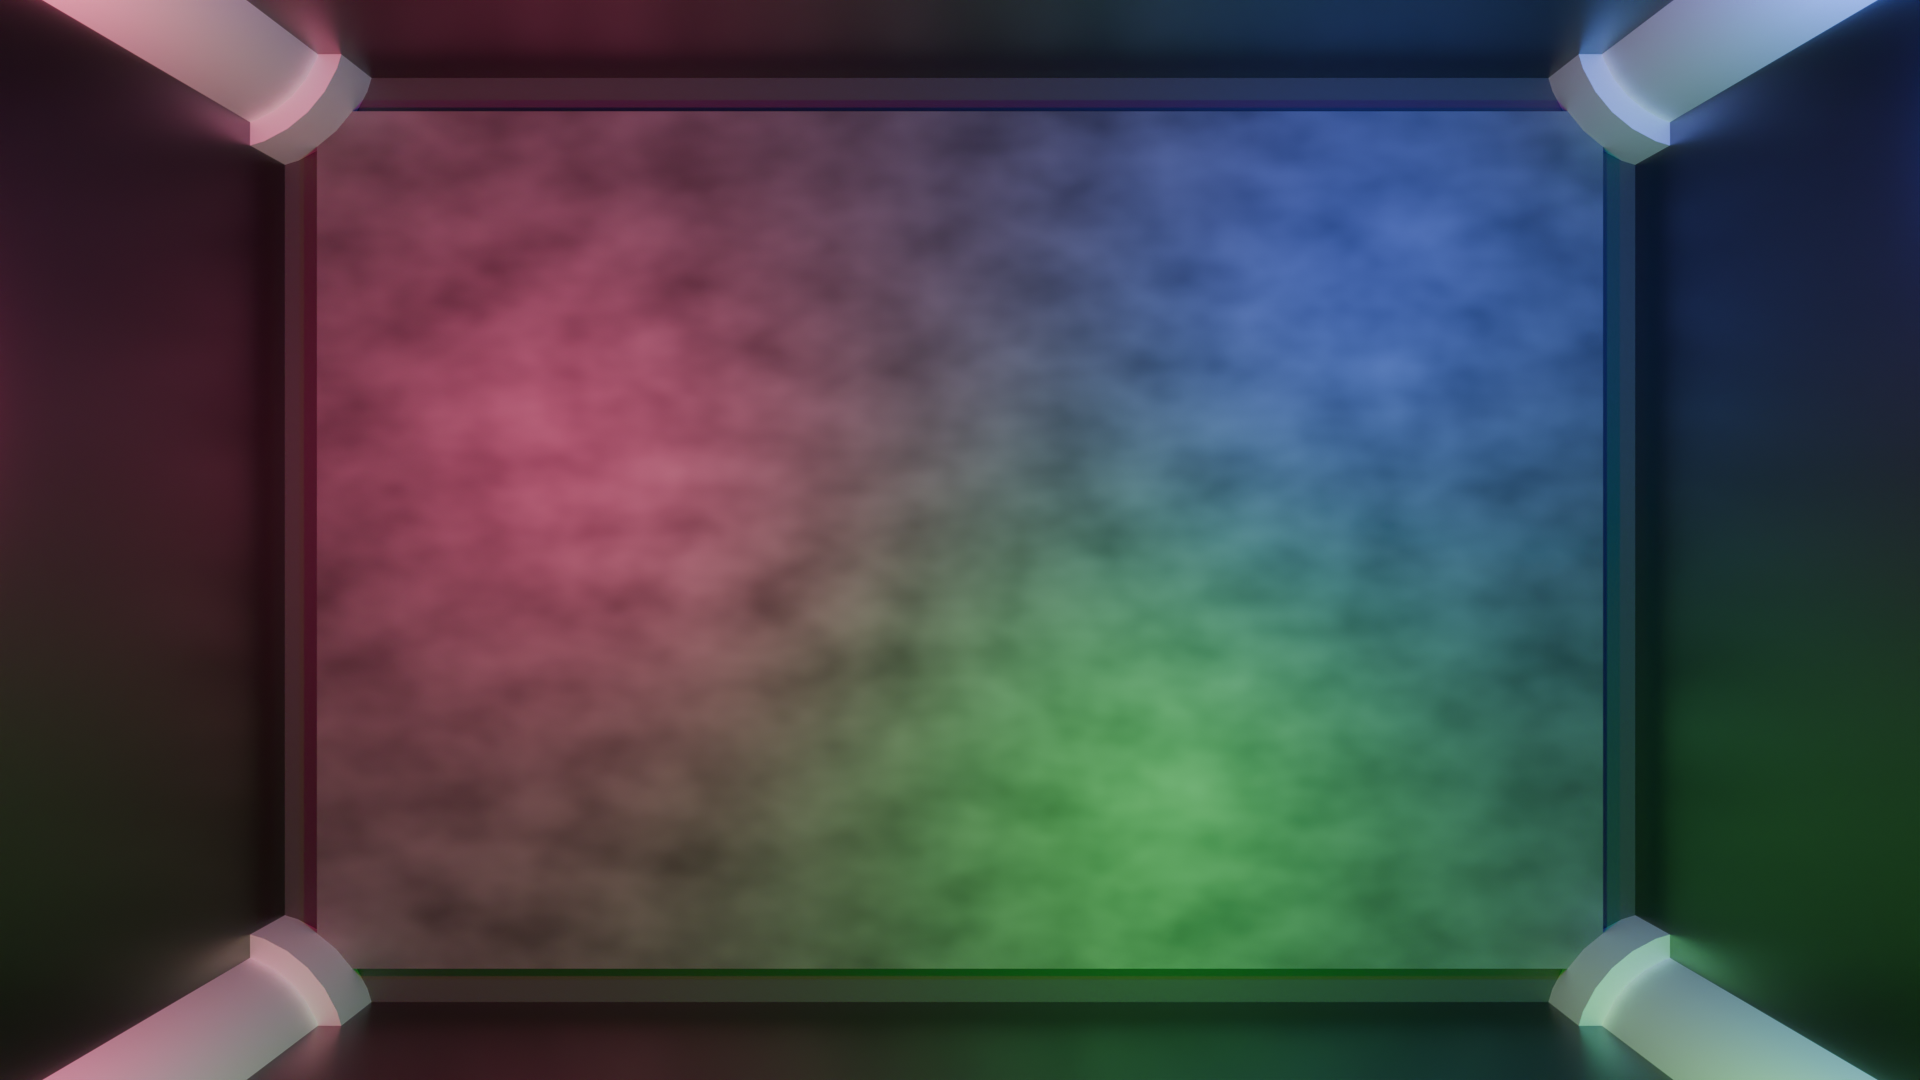
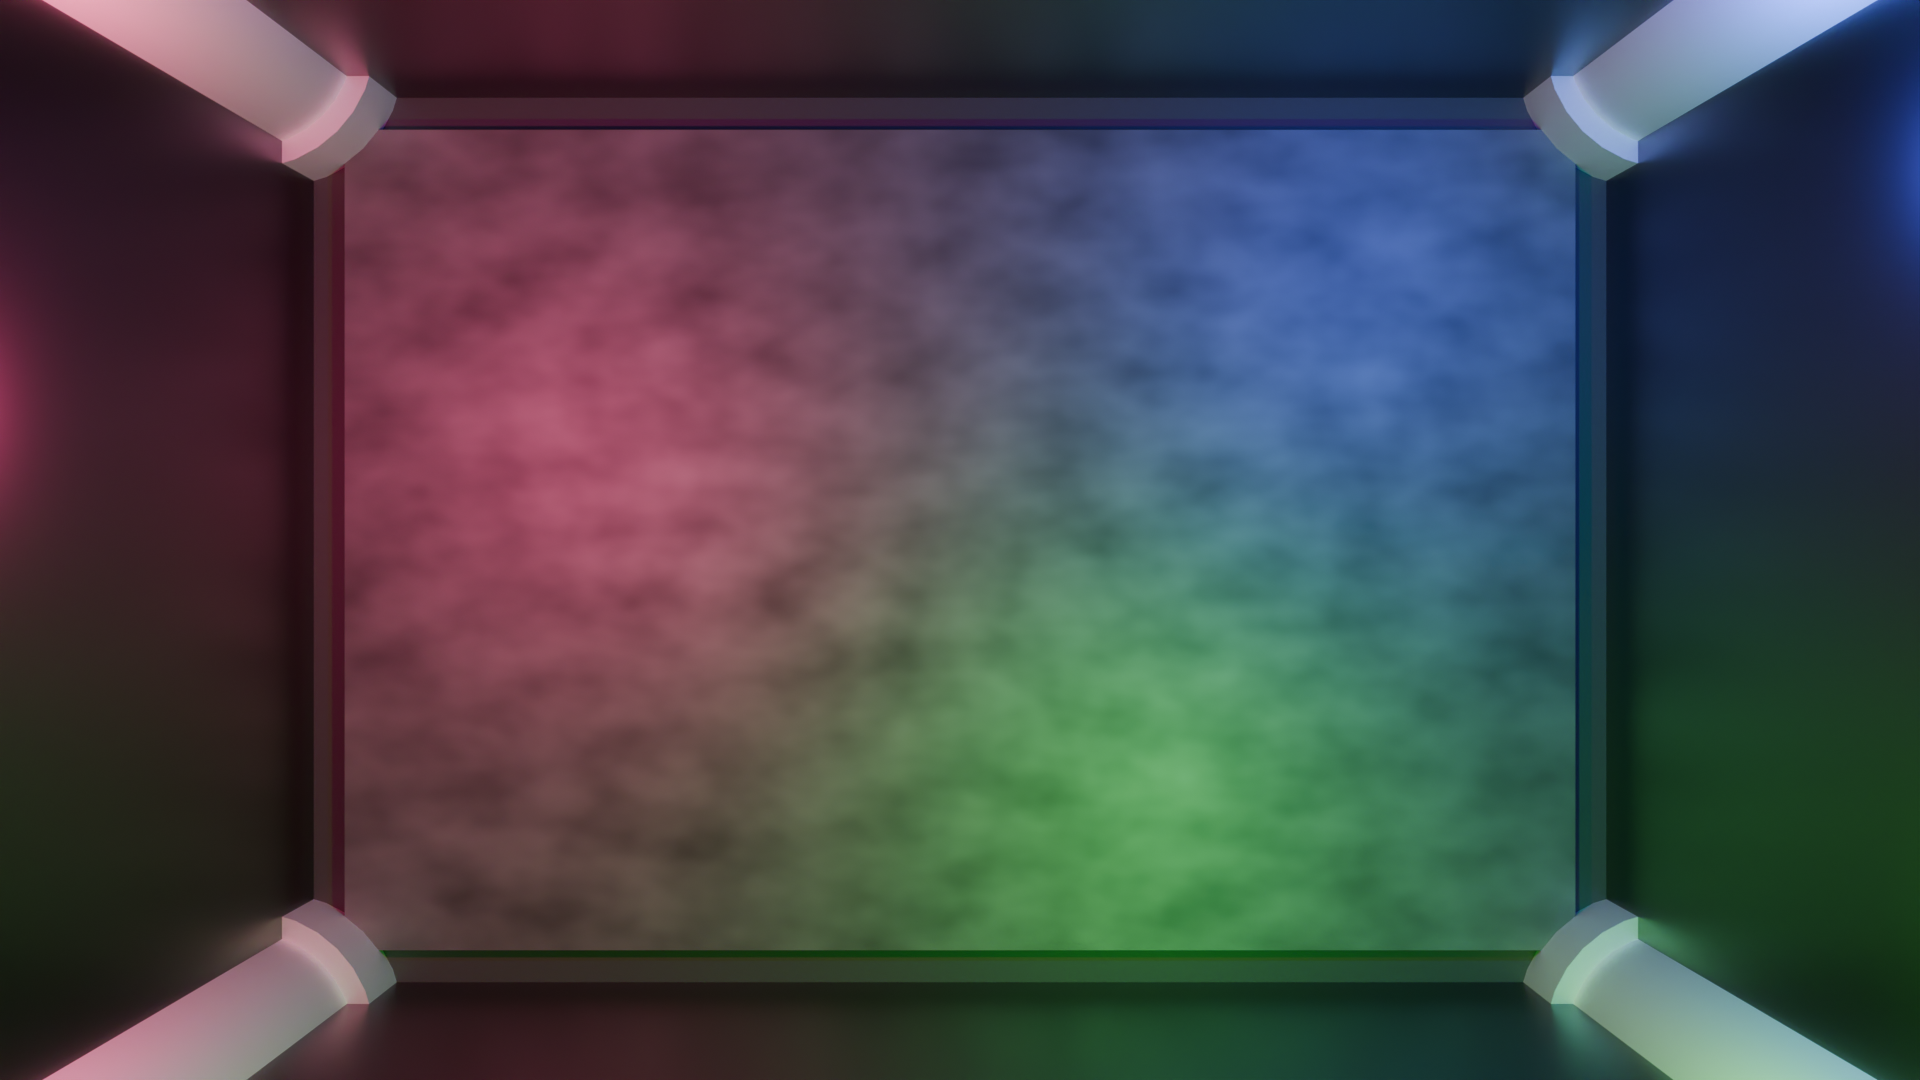
Added texture for pad

Changed region(s): [[0.0938, 0.0, 1.0, 1.0], [0.0, 0.275, 0.0312, 0.4889]]

diff --git a/Art/Downscaler/downscale_helper.py b/Art/Downscaler/downscale_helper.py
@@ -5,8 +5,8 @@ image_folder = ['before']
 output_folder = ['after']
 
 # Output dimensions
-width = int(1920/10)
-height = int(1080/10)
+width = int(1920/8)
+height = int(1080/8)
 
 # Number of frames to skip
 skip_frames = 2
